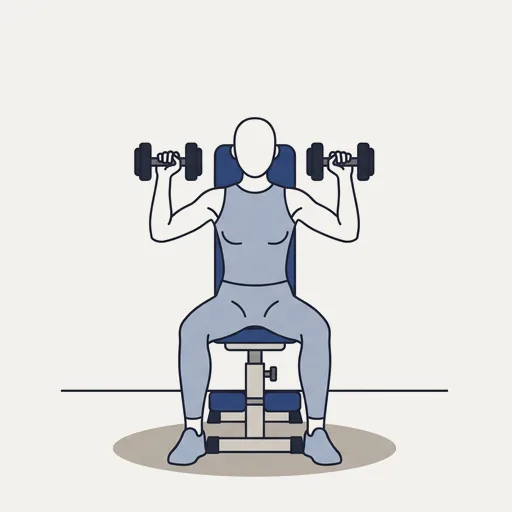
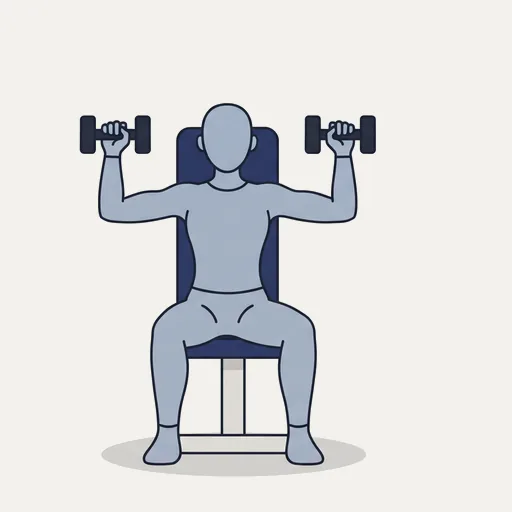
Animations : suspension, développé assis et incliné refaits, extension poignets retirée (main qui se retournait), zone avant-bras avec le rouleau de poignets
Claude-Session: https://claude.ai/code/session_01WKNup996cHiHJhfo2ungBz

Changed region(s): [[0.125, 0.1875, 0.875, 0.9375], [0.6562, 0.4688, 0.6875, 0.5]]

diff --git a/lib/v2/programmes/demosArt.ts b/lib/v2/programmes/demosArt.ts
@@ -29,7 +29,6 @@ export const DEMOS: Record<string, [ImageSourcePropType, ImageSourcePropType]> =
   elevations_laterales_halteres: [require('../../../assets/exercices/demos/elevations_laterales_halteres_a.webp'), require('../../../assets/exercices/demos/elevations_laterales_halteres_b.webp')],
   elevations_laterales_poulie: [require('../../../assets/exercices/demos/elevations_laterales_poulie_a.webp'), require('../../../assets/exercices/demos/elevations_laterales_poulie_b.webp')],
   extension_haltere_nuque_2_mains: [require('../../../assets/exercices/demos/extension_haltere_nuque_2_mains_a.webp'), require('../../../assets/exercices/demos/extension_haltere_nuque_2_mains_b.webp')],
-  extension_poignets: [require('../../../assets/exercices/demos/extension_poignets_a.webp'), require('../../../assets/exercices/demos/extension_poignets_b.webp')],
   extension_triceps_poulie_corde: [require('../../../assets/exercices/demos/extension_triceps_poulie_corde_a.webp'), require('../../../assets/exercices/demos/extension_triceps_poulie_corde_b.webp')],
   face_pull: [require('../../../assets/exercices/demos/face_pull_a.webp'), require('../../../assets/exercices/demos/face_pull_b.webp')],
   farmer_walk: [require('../../../assets/exercices/demos/farmer_walk_a.webp'), require('../../../assets/exercices/demos/farmer_walk_b.webp')],

diff --git a/lib/v2/programmes/zones.ts b/lib/v2/programmes/zones.ts
@@ -115,7 +115,7 @@ export const ZONES: Zone[] = [
     muscles: ['avant_bras'],
     exos: [
       e('Farmer Walk', 'AVANT-BRAS', 30, 45, 'Tu marches en portant lourd : tes mains serrent fort pour ne rien lâcher, c’est ça qui muscle tes avant-bras. Bras tendus, épaules basses, petits pas.', { secondes: true }),
-      e('Extension Poignets', 'AVANT-BRAS', 12, 20, 'Avant-bras posés sur les cuisses, monte le dos de la main en pliant seulement le poignet.'),
+      e('Wrist Roller', 'AVANT-BRAS', 3, 5, 'Bras tendus devant toi, enroule la corde en tournant les poignets jusqu’à remonter le poids, puis redescends lentement. Une montée et une descente font une répétition.'),
     ],
   },
   {
